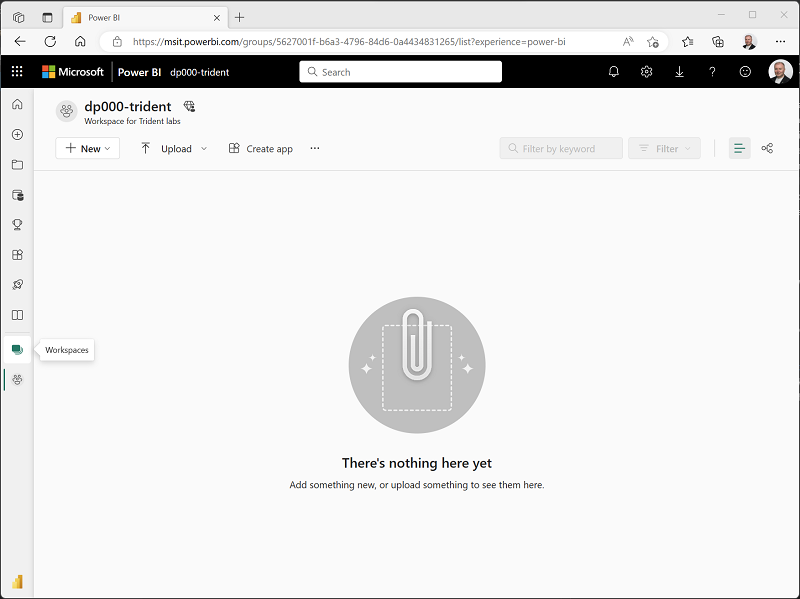
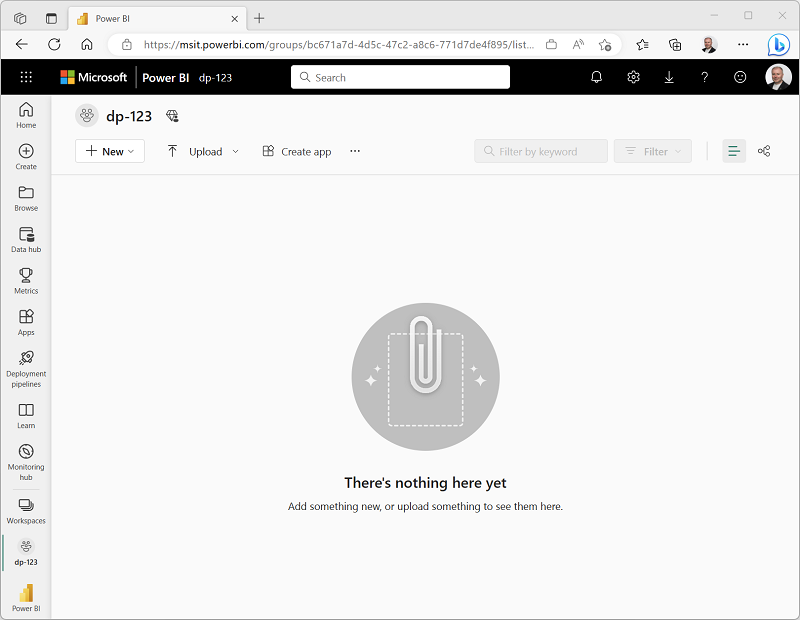
Updated UI

diff --git a/Instructions/Labs/01b-delta-lake.md b/Instructions/Labs/01b-delta-lake.md
@@ -40,14 +40,14 @@ Now that you have a workspace, it's time to switch to the *Data engineering* exp
 
 2. In the **Data engineering** home page, create a new **Lakehouse** with a name of your choice.
 
-    After a minute or so, a new lakehouse with no **Tables** or **Files** will be created. You need to ingest some data into the data lakehouse for analysis. There are multiple ways to do this, but in this exercise you'll simply download a text file to your local computer and then upload it to your lakehouse.
+    After a minute or so, a new empty lakehouse. You need to ingest some data into the data lakehouse for analysis. There are multiple ways to do this, but in this exercise you'll simply download a text file to your local computer and then upload it to your lakehouse.
 
 3. Download the data file for this exercise from [https://github.com/MicrosoftLearning/dp-data/raw/main/products.csv](https://github.com/MicrosoftLearning/dp-data/raw/main/products.csv), saving it as **products.csv** on your local computer.
 
-4. Return to the web browser tab containing your lakehouse, and in the **...** menu for the **Files** node in the **Lake view** pane, select **New subsfolder** and create a folder named **products**.
+4. Return to the web browser tab containing your lakehouse, and in the **...** menu for the **Files** folder in the **Lakehise explorer** pane, select **New subfolder** and create a folder named **products**.
 
 5. In the **...** menu for the **products** folder, select **Upload** and **Upload files**, and then upload the **products.csv** file from your local computer to the lakehouse.
-6. After the files have been uploaded, select the **products** folder; and verify that the **products.csv** file has been uploaded, as shown here:
+6. After the file has been uploaded, select the **products** folder; and verify that the **products.csv** file has been uploaded, as shown here:
 
     ![Screenshot of uploaded products.csv file in a lakehouse.](./Images/products-file.png)
 
@@ -58,7 +58,7 @@ Now that you have a workspace, it's time to switch to the *Data engineering* exp
     After a few seconds, a new notebook containing a single *cell* will open. Notebooks are made up of one or more cells that can contain *code* or *markdown* (formatted text).
 
 2. Select the existing cell in the notebook, which contains some simple code, and then use its **&#128465;** (*Delete*) icon at its top-right to remove it - you will not need this code.
-3. In the pane on the left, expand **Files** and select **products** to reveal a new pane showing the **products.csv** file you uploaded previously:
+3. In the **Explorer** pane on the left, expand **Files** and select **products** to reveal a new pane showing the **products.csv** file you uploaded previously:
 
     ![Screenshot of a notebook with a Files pane.](./Images/notebook-products.png)
 
@@ -74,7 +74,7 @@ Now that you have a workspace, it's time to switch to the *Data engineering* exp
 
 5. Use the **&#9655;** (*Run cell*) button on the left of the cell to run it.
 
-    > **Note**: Since this is the first time you've run any Spark code in this session, the Spark pool must be started. This means that the first run in the session can take a minute or so to complete. Subsequent runs will be quicker.
+    > **Note**: Since this is the first time you've run any Spark code in this notebook, a Spark session must be started. This means that the first run can take a minute or so to complete. Subsequent runs will be quicker.
 
 6. When the cell command has completed, review the output below the cell, which should look similar to this:
 
@@ -96,7 +96,7 @@ Delta lake uses the *delta* file format to save data. The delta format is based 
     df.write.format("delta").save(delta_table_path)
     ```
 
-2. In the pane on the left, in the **...** menu for **Files**, select **Refresh** and note that a new folder named **products-delta** has been created. Select this folder to see the parquet format file(s) containing the data and the **_delta_log** folder containing transactional metadata.
+2. In the **Explorer** pane on the left, in the **...** menu for **Files**, select **Refresh** and note that a new folder named **products-delta** has been created. Select this folder to see the parquet format file(s) containing the data and the **_delta_log** folder containing transactional metadata.
 
 3. In the notebook, add another new code cell. Then, in the new cell, add the following code and run it:
 
@@ -113,7 +113,7 @@ Delta lake uses the *delta* file format to save data. The delta format is based 
         set = { "ListPrice": "ListPrice * 0.9" })
 
     # View the updated data as a dataframe
-    display(deltaTable.toDF()
+    display(deltaTable.toDF())
     ```
 
     The data is loaded from the delta format files into a **DeltaTable** object and updated. You can see the update reflected in the query results.
@@ -162,7 +162,14 @@ So far you've worked with delta lake by loading data from the folder containing 
 
     This code creates an external tabled named **ProductsExternal** based on the path to the delta files you defined previously. It then displays a description of the table's properties. Note that the **Location** property is the path you specified.
 
-2. Add a new code cell, and then enter and run the following code:
+2. In the **Explorer** pane, in the **...** menu for the **Tables** folder, select **Refresh**. Then expand the **Tables** node and verify that the **ProductsExternal** table has been created.
+
+    ---
+    *If refreshing the Tables folder doesn't work, refresh the entire web page!*
+
+    ---
+
+3. Add a new code cell, and then enter and run the following code:
 
     ```sql
     %%sql
@@ -183,7 +190,12 @@ So far you've worked with delta lake by loading data from the folder containing 
 
     This code creates a managed tabled named **ProductsManaged** based on the DataFrame you originally loaded from the **products.csv** file (before you updated the price of product 771). You do not specify a path for the parquet files used by the table - this is managed for you in the Hive metastore.
 
-2. In the pane on the left, on the **Lake view** tab, in the **...** menu for the **Tables** node, select **Refresh**. Then note that a folder named **productsmanaged** has been created for the data files on which the table is based.
+2. In the **Explorer** pane, in the **...** menu for the **Tables** folder, select **Refresh**. Then expand the **Tables** node and verify that the **ProductsManaged** table has been created.
+
+    ---
+    *If refreshing the Tables folder doesn't work, refresh the entire web page!*
+
+    ---
 
 3. Add a new code cell, and then enter and run the following code:
 
@@ -207,9 +219,17 @@ So far you've worked with delta lake by loading data from the folder containing 
 
     This code lists the tables in the lakehouse database.
 
-2. In the pane on the left, select the **Table view** tab and verify that both tables are listed there.
+2. In the menu bar on the left edge, select **Browse**. Then select your lakehouse.
 
-3. Add a new code cell to the notebook, add use it to run the following code:
+3. In the lakehouse page, in the **Lakehouse explorer** pane, expand **Files** and select the **product-delta** folder to view the files it contains.
+
+4. In the in the **Lakehouse explorer** pane, expand **Tables** and in the **...** menu for the **productsexternal** table, select **View data files**. These are the files in the  **Files/product-delta** folder.
+
+5. In the in the **Lakehouse explorer** pane, under **Tables**, in the **...** menu for the **productsmanaged** table, select **View data files**. These files are managed by the Spark metastore - they're not in the **Files** folder path.
+
+6. In the **Open notebook** menu, select **Existing notebook** and open the notebook you were previously working in (**Notebook 1**).
+
+7. Add a new code cell to the notebook, add use it to run the following code:
 
     ```sql
     %%sql
@@ -220,9 +240,13 @@ So far you've worked with delta lake by loading data from the folder containing 
 
     This code drops the tables from the metastore.
 
-4. On the **Table view** tab, in the **...** menu for the **Tables** node, select **Refresh**; and verify that no tables are now listed.
-5. Return to the **Lake view** tab and refresh the **Tables** node. Note that the folder for the managed table has been deleted.
-6. Refresh the  **Files** node. Dropping the external table has removed the table from the metastore, but left the data files intact.
+8. In the **Explorer** pane, in the **...** menu for the **Tables** node, select **Refresh**; and verify that no tables are now listed.
+
+    ---
+    *If refreshing the Tables folder doesn't work, refresh the entire web page!*
+
+    ---
+9. Refresh the  **Files** node. Dropping the external table has removed the table from the metastore, but left the data files on which it was based intact.
 
 ### Create a table using SQL
 
@@ -236,7 +260,14 @@ So far you've worked with delta lake by loading data from the folder containing 
     LOCATION 'Files/products-delta';
     ```
 
-2. Add a new code cell, and then enter and run the following code:
+2. In the **Explorer** pane, in the **...** menu for the **Tables** node, select **Refresh**; and verify that the **Products** table is now listed.
+
+    ---
+    *If refreshing the Tables folder doesn't work, refresh the entire web page!*
+
+    ---
+
+3. Add a new code cell, and then enter and run the following code:
 
     ```sql
     %%sql

diff --git a/Instructions/Labs/01-analyze-spark.md b/Instructions/Labs/01-analyze-spark.md
@@ -340,7 +340,7 @@ Tables in a Spark metastore are relational abstractions over files in the data l
 
 2. Run the code cell and review the output, which describes the definition of the new table.
 
-3. In the **Eplorer** pane, in the **...** menu for the **Tables** folder, select **Refresh**. Then expand the **Tables** node and verify that the **salesorders** table has been created.
+3. In the **Explorer** pane, in the **...** menu for the **Tables** folder, select **Refresh**. Then expand the **Tables** node and verify that the **salesorders** table has been created.
 
     ---
     *If refreshing the Tables folder doesn't work, refresh the entire web page!*
